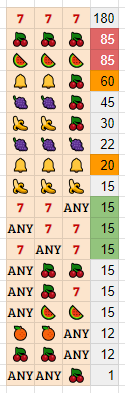
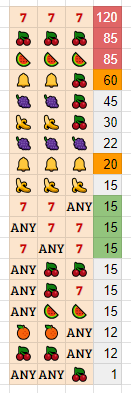
Updated jackpot combinations

diff --git a/slots/src/slots.h b/slots/src/slots.h
@@ -140,7 +140,7 @@ static const uint8_t payoffMultiplier = PAYMULTIPLIER;
  * 0 (zero) here means any symbol.
  */
 static constexpr payoffItem payoffTable[NCOMBINATIONS] = {
-	{{1, 1, 1}, 180, SpecialFeatures::NONE},
+	{{1, 1, 1}, 120, SpecialFeatures::JACKPOT},
 	{{3, 3, 3},  85, SpecialFeatures::JACKPOT},
 	{{4, 4, 4},  85, SpecialFeatures::JACKPOT},
 	{{5, 5, 3},  60, SpecialFeatures::BONUS},
